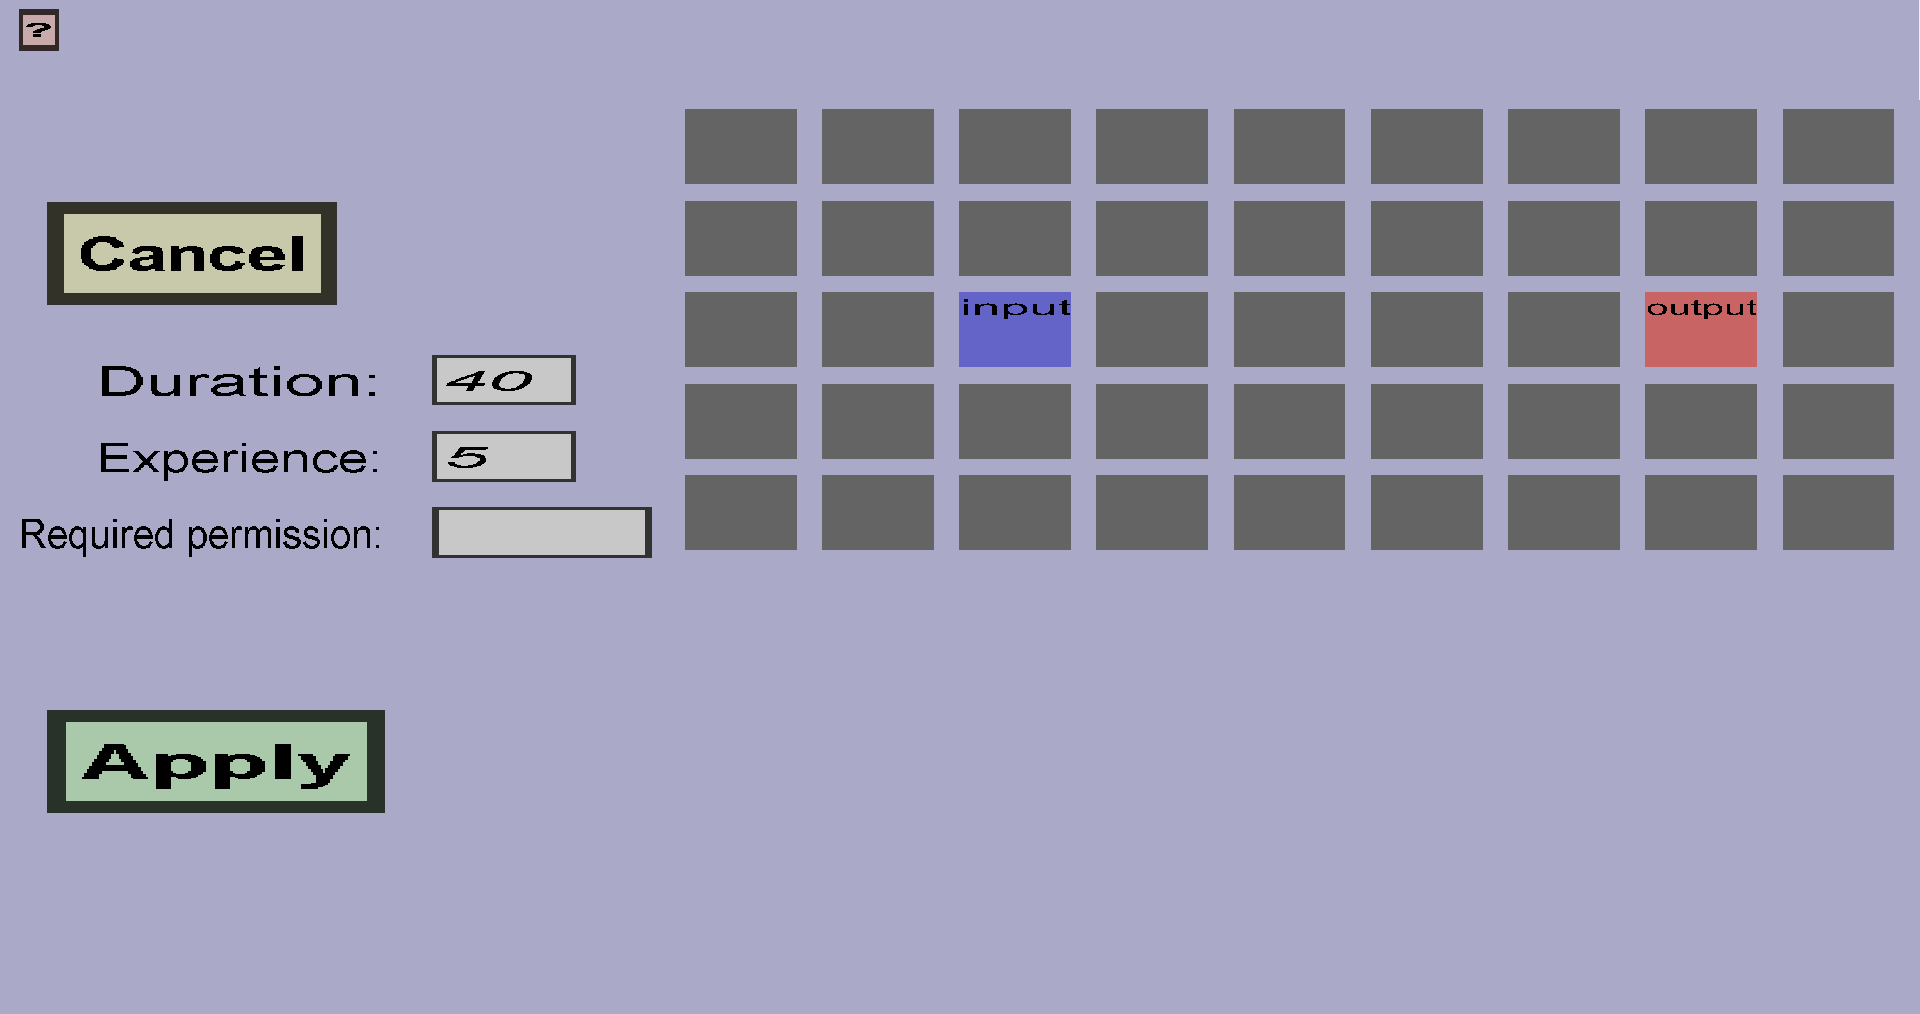
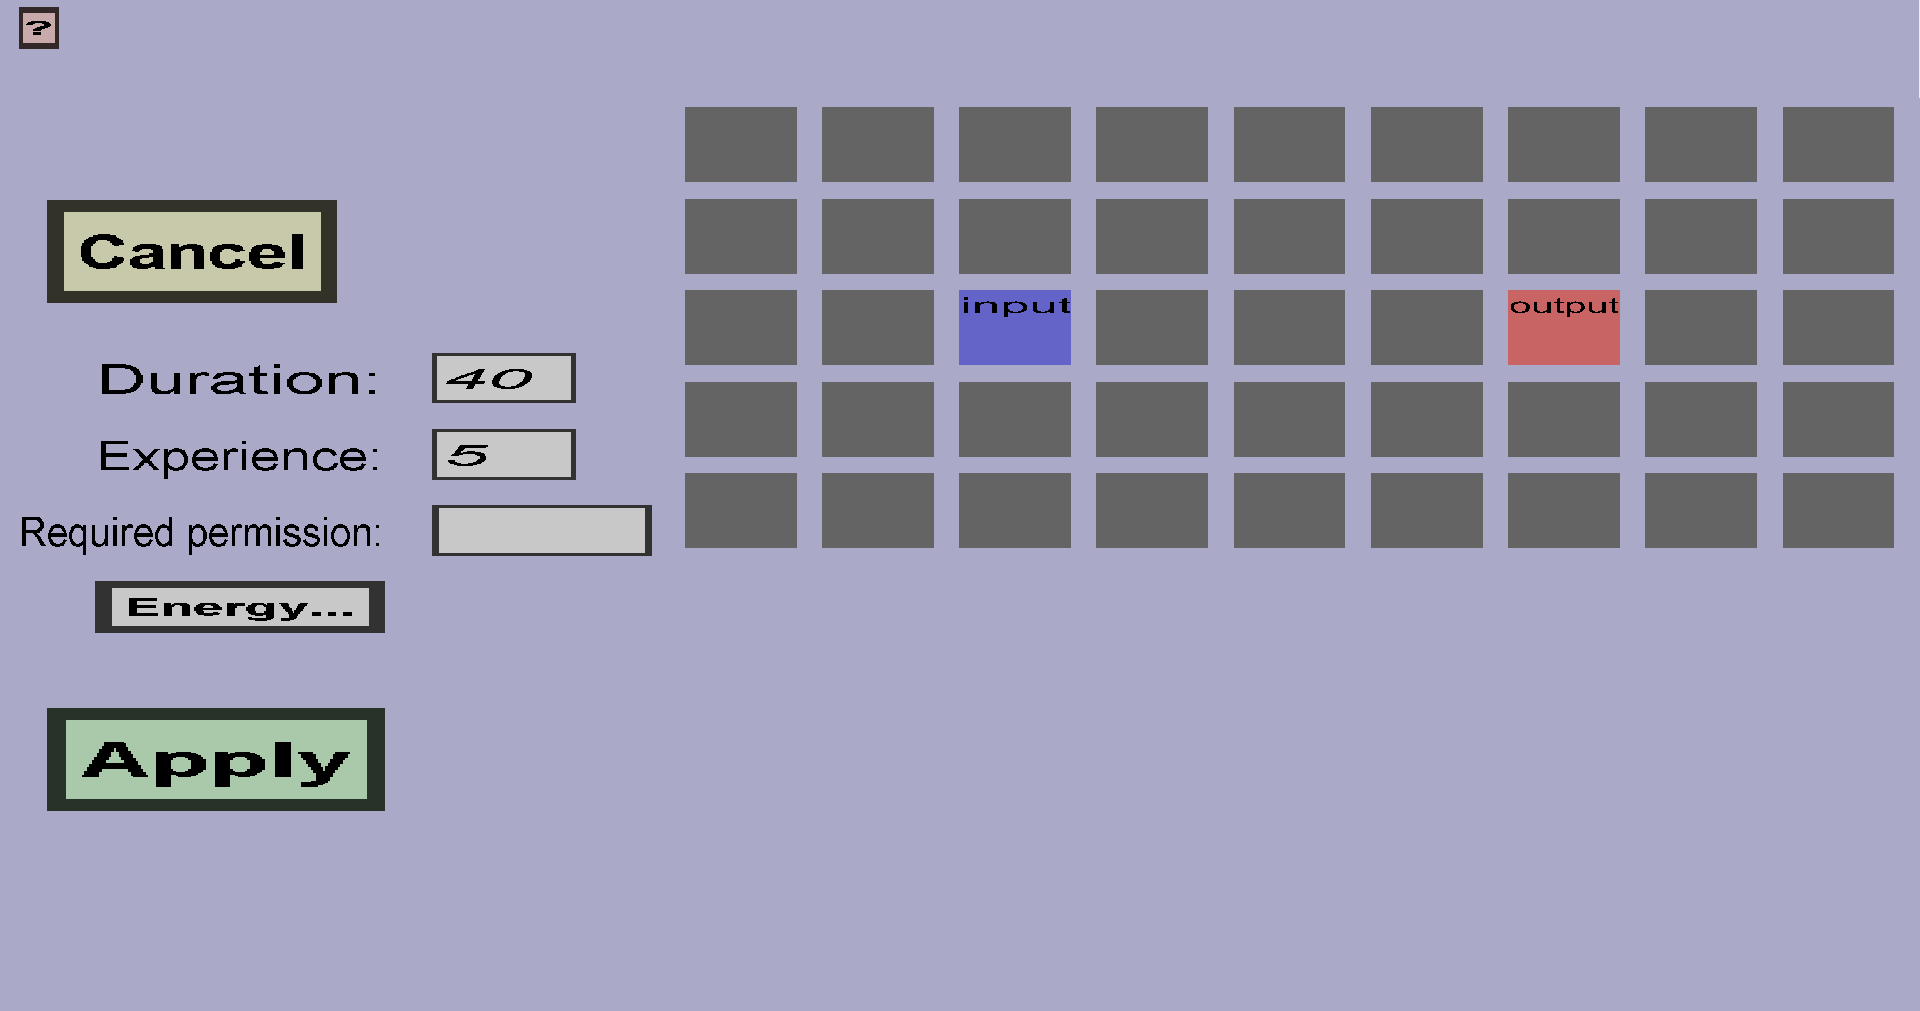
Document the custom container energy of custom items 11

diff --git a/custom items/editor documentation/edit menu/containers/slots/energy indicator.html b/custom items/editor documentation/edit menu/containers/slots/energy indicator.html
@@ -1,0 +1,76 @@
+<!DOCTYPE html>
+<html>
+    <head>
+        <meta charset="UTF-8" />
+        <title>Energy indicator menu</title>
+    </head>
+    <body>
+        <p>
+            The energy indicator menu can be used to create a new energy indicator slot. Energy indicator slots
+            show how much energy of a custom energy type is stored in its custom container. Energy
+            indicator slots have an associated energy type, a display item, a placeholder item and an
+            indicator domain. The display item will be shown when the amount of energy stored in the container is
+            larger than the minimum value of the energy type and the placeholder item when it's not. 
+            The indicator domain is interesting when using multiple energy indicator slots for a 
+            single energy indicator. This menu should look like this:
+        </p>
+        <img src="energy indicator.png" width="50%" />
+        <ul>
+            <li>
+                The 'Cancel' button will take you back to the <a href="../edit.html">container edit menu</a>
+                without creating a new energy indicator slot and without replacing the original slot.
+            </li>
+            <li>
+                The 'Done' button will replace the original slot (the slot you clicked before going to the 
+                previous menu) with the new energy indicator slot you are designing here (at least if no 
+                validation errors are found). It will then take you back to the 
+                <a href="../edit.html">container edit menu</a>.
+            </li>
+            <li>
+                The button on the right of 'Energy type:' shows the currently selected energy type (the energy 
+                type for which you are going to create an indicator). To choose an energy type, you need to
+                click the button and then on the energy type you would like to choose. <i>Note: you need to
+                    have at least 1 energy type, or you won't have anything to choose. So create the energy 
+                    type <b>before</b> creating its indicator!
+                </i>
+            </li>
+            <li>
+                The 'Display...' button lets you choose which item to display when the amount of energy
+                stored is larger than the minimum value of the energy type.
+                It will take you to the <a href="display.html">slot display creation menu</a>, where you can 
+                configure this item.
+            </li>
+            <li>
+                The 'Placeholder...' button lets you choose which item to display when the amount of energy
+                stored is the minimum amount of the energy type. It will take you to the 
+                <a href="display.html">slot display creation menu</a>, where you can configure this item.
+            </li>
+            <li>
+                The indication domain can be used to let the energy indicator 'zoom in' on a part of the 
+                domain of the energy type.
+                <ul>
+                    <li>
+                        If you leave it at 0% to 100%, the display item will have a stacksize of 64 when the 
+                        stored energy is the maximum value and a stacksize of 1 when the stored energy is just
+                        above the minimum value of the energy type. When the stored energy is exactly the
+                        minimum value, the placeholder will be shown.
+                    </li>
+                    <li>
+                        If you would change it to 50% to 100%, the display item would get a stacksize of 1 when
+                        the stored energy is slightly above the average of the minimum and maximum value of the
+                        energy type. The placeholder would be shown when the stored energy is less than or equal
+                        to the average of the minimum value and the maximum value.
+                    </li>
+                    <li>
+                        If you would change it to 0% to 50%, the stacksize of the display item will be 64 if
+                        the stored energy is larger than the average of the minimum and maximum value of the
+                        energy type.
+                    </li>
+                </ul>
+                The latter two may seem stupid, but they can be useful if you use them both and place them in 
+                slots next to each other: that would basically give an indicator that is twice as accurate as 
+                the basic 0% to 100%.
+            </li>
+        </ul>
+    </body>
+</html>

diff --git a/custom items/editor documentation/edit menu/containers/energy/edit.html b/custom items/editor documentation/edit menu/containers/energy/edit.html
@@ -1,0 +1,64 @@
+<!DOCTYPE html>
+<html>
+    <head>
+        <meta charset="UTF-8" />
+        <title>Energy type edit menu</title>
+    </head>
+    <body>
+        <p>
+            The energy type edit menu can be used to create a new <i>energy type</i> or to modify an existing
+            energy type. Container recipes may require or generate energy of a certain energy type. This menu should
+            look like this:
+        </p>
+        <img src="edit.png" width="50%" />
+        <h2>Name</h2>
+        <p>
+            The name of the energy type is <b>not</b> used in-game: it only helps you distinguishing energy types from
+            each other.
+        </p>
+        <h2>Values</h2>
+        <p>
+            At any point in time, a custom container has a certain amount/<i>value</i> of the energy type. This value
+            is always an integer and it will be between the <i>Minimum value</i> and the <i>Maximum value</i> that you
+            specify here. The first time a custom container is opened, the value will be the <i>Initial value</i>
+            that you specify here.
+        </p>
+        <h2>Sharing an energy type</h2>
+        <p>
+            The 'sharing' checkboxes determine whether energy of this energy type will be shared between containers.
+            By default, all checkboxes are <b>un</b>checked, which will cause the energy to be shared between containers
+            if and only if the containers share their inventory. (Containers of the same type can share their inventory if
+            their <i>storage mode</i> allows it.)
+        </p>
+        <h3>Share with other container types</h3>
+        <p>
+            This determines what happens when 2 different custom containers are at the same location. If you leave this
+            <b>unchecked</b>, each container will have its <b>own</b> energy stash, so when one of the containers drains
+            energy, the other will <b>not</b> notice it. If you <b>check</b> this, containers at the same location will
+            share their energy. (So when a recipe of one container generates energy, a recipe of another container can
+            consume it.)
+        </p>
+        <h3>Force sharing with other locations</h3>
+        <p>
+            If you leave this <b>un</b>checked, containers at different locations will only share their energy if they
+            share their inventory (when their storage mode is <b>per player</b> or <b>global</b>). If you <b>check</b>
+            this checkbox, containers at different locations will share their energy, even when their storage mode is
+            <b>per location</b>.
+        </p>
+        <h3>Force sharing with other string hosts</h3>
+        <p>
+            If you leave this <b>un</b>checked, containers at different string hosts will only share their energy if they
+            share their inventory (when their storage mode is <b>per player</b> or <b>global</b>). If you <b>check</b>
+            this checkbox, containers at different string hosts will share their energy, even when their storage mode is
+            <b>per location</b>.
+        </p>
+        <h3>Force sharing with other players</h3>
+        <p>
+            If you leave this <b>un</b>checked, players will share the energy of custom containers with other players if
+            and only if they share the inventory of that custom container with other players (so when the storage mode
+            is <b>global</b> or <b>per location</b>). If you <b>check</b> this, players will also share the energy of 
+            custom containers when they do <b>not</b> share their inventory (when the storage mode is <b>per player</b>
+            or <b>per location per player</b>).
+        </p>
+    </body>
+</html>

diff --git a/custom items/editor documentation/edit menu/containers/recipes/energy.html b/custom items/editor documentation/edit menu/containers/recipes/energy.html
@@ -1,0 +1,52 @@
+<!DOCTYPE html>
+<html>
+    <head>
+        <meta charset="UTF-8" />
+        <title>Container recipe energy menu</title>
+    </head>
+    <body>
+        <p>
+            The container recipe energy menu can be used to configure whether a container recipe requires, generates,
+            or drains energy from its custom container. This menu should look like this:
+        </p>
+        <img src="energy.png" width="50%" />
+        <p>
+            In this menu, you can configure a list of energy entries, where each energy entry has the following properties:
+        </p>
+        <ul>
+            <li>
+                An <b>energy type</b>: the stored energy from this energy type will be used.
+            </li>
+            <li>
+                An <b>operation</b>: the operation determines what happens with the stored energy. 
+                There are 4 possible operations:
+                <ul>
+                    <li>
+                        <b>Require at least</b>: the container recipe can only happen when its container has at least
+                        <b>value</b> energy of the <b>energy type</b>.
+                    </li>
+                    <li>
+                        <b>Require at most</b>: the container recipe can only happen when its container has at most
+                        <b>value</b> energy of the <b>energy type</b>.
+                    </li>
+                    <li>
+                        <b>Decrease</b>: the containers energy of the <b>energy type</b> will be decreased by
+                        <b>value</b>. If this would cause the energy to go below the minimum value of <b>energy type</b>,
+                        it will be set to the minimum value instead.
+                    </li>
+                    <li>
+                        <b>Increase</b>: the containers energy of the <b>energy type</b> will be increased by
+                        <b>value</b>. If this would cause the energy to go over the maximum value of <b>energy type</b>,
+                        it will be set to the maximum value instead.
+                    </li>
+                </ul>
+                Note: when you use <b>Decrease</b>, you would normally also want to use <b>Require at least</b> with
+                the same value and energy type to ensure that there is enough energy to drain. (And similarly, you would
+                also want to use <b>Require at most</b> if you use <b>Increase</b>).
+            </li>
+            <li>
+                The <b>value</b>: this is the value/amount that is required or will be increased/decreased.
+            </li>
+        </ul>
+    </body>
+</html>

diff --git a/custom items/editor documentation/edit menu/containers/slots/fuel indicator.html b/custom items/editor documentation/edit menu/containers/slots/fuel indicator.html
@@ -16,18 +16,18 @@
         <img src="fuel indicator.png" width="50%" />
         <ul>
             <li>
-                The 'Cancel' button will take you back to the <a href="../edit.html">contaier edit menu</a>
+                The 'Cancel' button will take you back to the <a href="../edit.html">container edit menu</a>
                 without creating a new fuel indicator slot and without replacing the original slot.
             </li>
             <li>
                 The 'Done' button will replace the original slot (the slot you clicked before going to the 
                 previous menu) with the new fuel indicator slot you are designing here (at least if no 
                 validation errors are found). It will then take you back to the 
-                <a href="../edit.html">contaier edit menu</a>.
+                <a href="../edit.html">container edit menu</a>.
             </li>
             <li>
                 The button on the right of 'Fuel slot:' shows the currently selected fuel slot (the fuel 
-                slot for which you are going to create an indiator). To choose a fuel slot, you need to
+                slot for which you are going to create an indicator). To choose a fuel slot, you need to
                 click the button and then on the fuel slot you would like to choose. <i>Note: you need to
                     have at least 1 fuel slot, or you won't have anything to choose. So create the fuel 
                     slot <b>before</b> creating its indicator!

diff --git a/custom items/editor documentation/edit menu/containers/slots/create.html b/custom items/editor documentation/edit menu/containers/slots/create.html
@@ -20,6 +20,14 @@
                 you came from.
             </li>
             <li>
+                The 'Energy indicator' button will take you to the 
+                <a href="energy indicator.html">energy indicator menu</a>. These kind
+                of slots are used to show the players how much energy of a custom energy type is stored in
+                the custom container. These slots have a placeholder item and a display item. The display item is shown when 
+                the container has more energy than the minimum value, and the placeholder item is shown when the 
+                amount of stored energy is equal to the minimum value of the energy type.
+            </li>
+            <li>
                 The 'Decoration' button will take you to the <a href="display.html">slot display creation menu</a>. 
                 Decoration slots are slots that will contain an item of your choice, but the players won't be
                 able to take the item from the slot or put another item in it. As the name implies, it is simply

diff --git a/custom items/editor documentation/edit menu/containers/energy/overview.html b/custom items/editor documentation/edit menu/containers/energy/overview.html
@@ -1,0 +1,19 @@
+<!DOCTYPE html>
+<html>
+    <head>
+        <meta charset="UTF-8" />
+        <title>Energy type overview</title>
+    </head>
+    <body>
+        <p>
+            The energy type overview can be used to view and edit your <i>energy types</i>. An <i>energy type</i> is
+            a type of energy or resource that can be used in container recipes. Some container recipes may drain from a
+            certain energy type while other container recipes may add more energy of that type. This menu should look
+            like this:
+        </p>
+        <img src="overview.png" width="50%" />
+        <p>
+            More information about energy types is shown <a href="edit.html">here</a>.
+        </p>
+    </body>
+</html>

diff --git a/custom items/editor documentation/edit menu/containers/recipes/edit.html b/custom items/editor documentation/edit menu/containers/recipes/edit.html
@@ -64,6 +64,11 @@
                 (Permissions make little sense when the container is shared between all players since
                 each of these players can have different permissions.)
             </li>
+            <li>
+                When you click the <b>Energy...</b> button, you can configure whether this container recipe
+                requires, generates, or drains container energy. It will take you to the
+                <a href="energy.html">container recipe energy menu</a>.
+            </li>
         </ul>
         <h3>The grid</h3>
         <p>

diff --git a/custom items/editor documentation/edit menu/containers/index.html b/custom items/editor documentation/edit menu/containers/index.html
@@ -7,7 +7,8 @@
     <body>
         <p>
             The container portal is a simple menu from where you can either go to the
-            <a href="overview.html">container overview</a> or the <a href="fuel registries/overview.html">
+            <a href="overview.html">container overview</a>, the 
+            <a href="energy/overview.html">energy type overview</a>, or the <a href="fuel registries/overview.html">
             fuel registry overview</a>. (And you can go back to the edit menu you came from.)
             It should look like this:
         </p>
